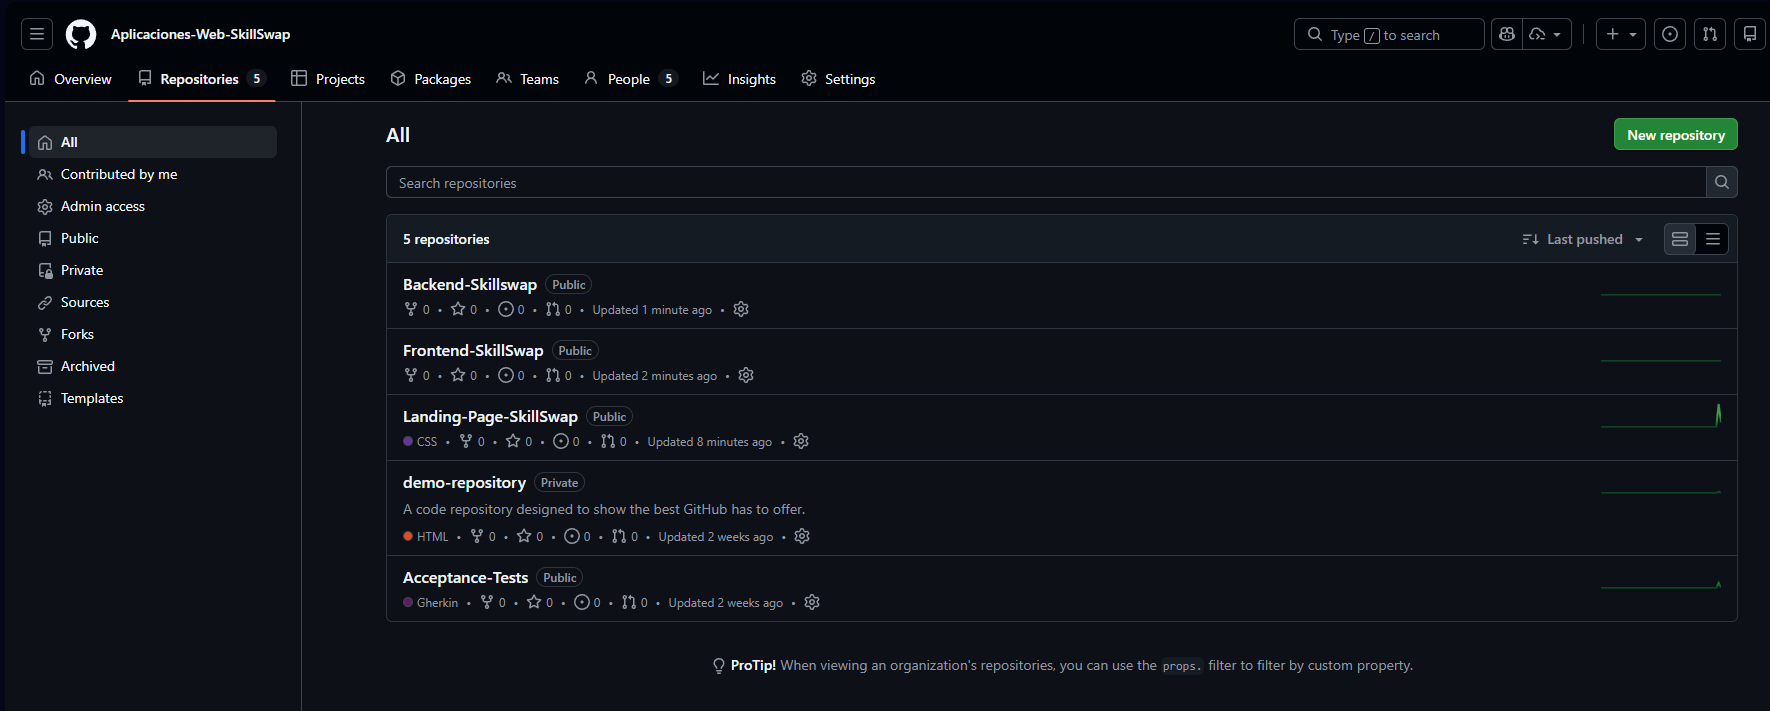
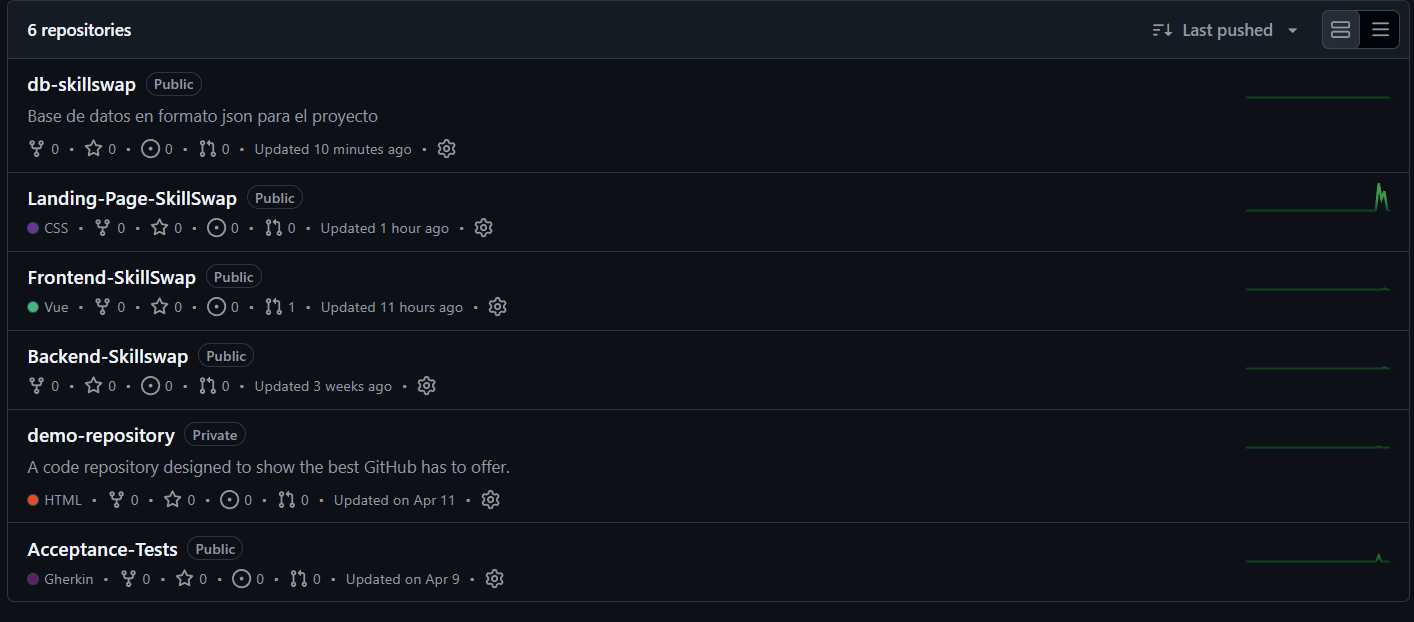
actualizando cambios

diff --git a/1asi0730-12190-Innovify-report-avn1.md b/1asi0730-12190-Innovify-report-avn1.md
@@ -2363,11 +2363,13 @@ Durante el desarrollo del proyecto se utilizó las siguientes herramientas de so
 | :--- | :--- | :---: | :--- | :--- |
 | **Canva** | Documentación y Presentaciones | SaaS | Elaboración colaborativa de presentaciones y documentación de los artefactos del proyecto. | [canva.com](https://www.canva.com/) |
 | **Figma** | UX/UI Design | SaaS | Diseño de la interfaz de usuario (wireframes, mockups y prototipos) para la Landing Page en versión web y móvil. | [figma.com](https://figma.com) |
-| **GitHub** | Control de versiones | SaaS | Repositorio del código fuente del Landing Page y servicios backend. | [github.com](https://github.com) |
+| **Firebase Hosting** | Software Deployment | SaaS | Plataforma de alojamiento utilizada para el despliegue continuo de la aplicación web (Frontend) durante el Sprint 2. | [firebase.google.com](https://firebase.google.com/) |
+| **GitHub** | Control de versiones | SaaS | Repositorio del código fuente de la Landing Page, Frontend y servicios backend. | [github.com](https://github.com) |
 | **Miro** | Requirements Management | SaaS | Elaboración colaborativa de User Story Mapping, escenarios As-Is/To-Be, diagramas C4 Model y flujos de usuario. | [miro.com](https://miro.com/) |
 | **Microsoft PowerPoint** | Documentación y Presentaciones | Local | Elaboración colaborativa de presentaciones y documentación de los artefactos del proyecto. | [microsoft.com](https://www.microsoft.com/en/microsoft-365/powerpoint) |
+| **My JSON Server** | Backend Mocking | SaaS | Herramienta utilizada para simular una Fake RESTful API y proveer datos simulados al frontend durante el Sprint 2. | [my-json-server.typicode.com](https://my-json-server.typicode.com/) |
 | **Trello** | Project Management | SaaS | Gestión ágil del proyecto, administración del Product Backlog, planificación de Sprints y asignación de tareas al equipo. | [trello.com](https://trello.com/) |
-| **Visual Studio Code** | Desarrollo Web | Local | Desarrollo y edición del código (HTML y CSS) para la Landing Page y los Acceptance Tests. | [code.visualstudio.com](https://code.visualstudio.com/download) |
+| **Visual Studio Code** | Desarrollo Web | Local | Desarrollo y edición del código (HTML, CSS, JS/TS) para la Landing Page, el Frontend y los Acceptance Tests. | [code.visualstudio.com](https://code.visualstudio.com/download) |
 | **Microsoft Word Online** | Software Documentation | SaaS | Redacción colaborativa del informe final del proyecto, especificación de requisitos y documentación técnica. | [office.com](https://www.office.com/) |
 
 ---
@@ -2375,6 +2377,8 @@ Durante el desarrollo del proyecto se utilizó las siguientes herramientas de so
 ### 5.1.2. Source Code Management
 
 Para administrar el código fuente del proyecto, el equipo empleará Git como sistema distribuido de control de versiones y GitHub como el entorno principal de colaboración. Esto permitirá conservar un registro detallado de todas las modificaciones, optimizar el trabajo en conjunto entre los miembros y garantizar la trazabilidad de cada versión del software.
+
+Durante el Sprint 2, la estrategia de gestión de ramas (GitFlow) evolucionó significativamente para soportar el desarrollo paralelo del frontend. Se crearon ramas de características (feature branches) derivadas de `develop` para cada *Bounded Context* visual (por ejemplo, `feature/workspace`, `feature/discovery`, `feature/learning`). Esto permitió a los miembros del equipo trabajar en componentes desacoplados sin generar conflictos, para luego integrarlos al entorno principal mediante *Pull Requests* debidamente estructurados y revisados.
 
 #### Repositorios GitHub
 
@@ -2386,8 +2390,11 @@ Para administrar el código fuente del proyecto, el equipo empleará Git como si
   * Enlace: [https://github.com/Aplicaciones-Web-SkillSwap/Backend-Skillswap.git](#)
 * **Demo_repository:** Repositorio de demostración del proyecto, utilizado para integrar o mostrar de forma simplificada el funcionamiento general del sistema.
   * Enlace: [https://github.com/Aplicaciones-Web-SkillSwap/demo-repository.git](#)
+* **db-SkillSwap:** Repositorio en el que se encuentran la base de datos en formato json
+  * Enlace: [https://github.com/Aplicaciones-Web-SkillSwap/db-skillswap.git](#)
 * **Acceptance Test:** Repositorio en el que se encuentran los archivos (`.feature`) en formato Gherkin.
   * Enlace: [https://github.com/Aplicaciones-Web-SkillSwap/Acceptance-Tests.git](#)
+
 
 <br><br>
 <p align="center">
@@ -2756,53 +2763,63 @@ A continuación, se presentan los nombres de usuario del equipo junto con alguno
 
 ---
 
+
 #### 5.2.1.5. Execution Evidence for Sprint Review
 En este Sprint logramos construir y visualizar la principal puerta de entrada a nuestra plataforma. Se finalizó completamente la Landing Page, permitiendo a los usuarios navegar por las secciones de Soluciones, Proyección Tecnológica y Alianzas, además de alternar fluidamente entre inglés y español.
 
-Por el lado funcional, los usuarios ya pueden acceder a la vista de Registro e Inicio de Sesión, validando que el flujo de autenticación responda correctamente.
+Por el lado funcional, los usuarios ya pueden acceder a la vista de Registro e Inicio de Sesión, validando que el flujo de autenticación responda correctamente. Se aplicaron los principios de diseño adaptable (Responsive Web Design) para asegurar el correcto despliegue en múltiples dispositivos.
 
 ### Sprint 1:
 
 <figure style="text-align: center; margin-bottom: 40px;">
-  <img src="public/assets/images-doc/sprint1-ui-evidence.png" alt="Evidencias UI Sprint 1" width="800">
+  <img src="public/assets/images-doc/sprint1-ui-evidence.png" alt="Evidencias UI Sprint 1 - Hero y CTA" width="800">
   <figcaption style="margin-top: 10px;">
-    <em>Se observa la página de inicio que define la estructura preliminar, la barra de navegación y los llamados a la acción, siendo estática.</em>
+    <em>Figura. Vista principal del Landing Page desplegado. Se evidencia la explicación del propósito de la plataforma complementada con un diseño limpio y el botón principal de Call-To-Action (CTA) diseñado para convencer a los visitantes de registrarse en la aplicación.</em>
   </figcaption>
 </figure>
 
 <br><br>
 
 <figure style="text-align: center; margin-bottom: 40px;">
-  <img src="public/assets/images-doc/sprint1-ui-evidence2.png" alt="Evidencias UI Sprint 1" width="800">
+  <img src="public/assets/images-doc/sprint1-ui-evidence-mobile.png" alt="Evidencias UI Sprint 1 - Diseño Adaptable" width="400">
   <figcaption style="margin-top: 10px;">
-    <em>Se observa la interfaz representativa de la sección "Sobre nosotros", utilizada para ilustrar el flujo de intercambio de habilidades y validar la experiencia de usuario.</em>
+    <em>Figura. Evidencia de la aplicación de los principios de Responsive Web Design. La interfaz de la Landing Page se adapta correctamente a dispositivos móviles, reorganizando los elementos en una sola columna y habilitando el menú de navegación compacto.</em>
   </figcaption>
 </figure>
 
 <br><br>
 
 <figure style="text-align: center; margin-bottom: 40px;">
-  <img src="public/assets/images-doc/sprint1-ui-evidence3.png" alt="Evidencias UI Sprint 1" width="800">
+  <img src="public/assets/images-doc/sprint1-ui-evidence-footer.png" alt="Evidencias UI Sprint 1 - Redes y Contacto" width="800">
   <figcaption style="margin-top: 10px;">
-    <em>Diseño estático del formulario de autenticación, estructurado con sus campos respectivos para la futura integración con los servicios de validación de credenciales.</em>
+    <em>Figura. Sección inferior (Footer) de la Landing Page. Se evidencia la inclusión de la información de contacto oficial de Innovify y los vínculos de acceso a nuestras cuentas en redes sociales (Social Media Accounts).</em>
   </figcaption>
 </figure>
 
 <br><br>
 
 <figure style="text-align: center; margin-bottom: 40px;">
-  <img src="public/assets/images-doc/sprint1-ui-evidence4.png" alt="Evidencias UI Sprint 1" width="800">
+  <img src="public/assets/images-doc/sprint1-ui-evidence2.png" alt="Evidencias UI Sprint 1 - Sobre Nosotros" width="800">
   <figcaption style="margin-top: 10px;">
-    <em>Vista frontal del formulario de registro estático que ilustra la disposición de los campos de recolección de datos necesarios para la creación de nuevas cuentas.</em>
+    <em>Figura. Interfaz representativa de la sección "Sobre nosotros", utilizada para ilustrar el modelo de negocio, las características y los beneficios del producto a los nuevos visitantes.</em>
   </figcaption>
 </figure>
 
 <br><br>
 
 <figure style="text-align: center; margin-bottom: 40px;">
-  <img src="public/assets/images-doc/sprint12-ui-evidence5.png" alt="Evidencias UI Sprint 1" width="800">
+  <img src="public/assets/images-doc/sprint1-ui-evidence3.png" alt="Evidencias UI Sprint 1 - Login" width="800">
   <figcaption style="margin-top: 10px;">
-    <em>La figura muestra la sección de equipo del landing page de SkillSwap, con fotos, nombres y roles técnicos de cada integrante, permitiendo visualizar la estructura y composición del equipo de ingeniería.</em>
+    <em>Figura. Diseño del formulario de autenticación, estructurado con sus campos respectivos para la futura integración con los servicios de validación de credenciales institucionales.</em>
+  </figcaption>
+</figure>
+
+<br><br>
+
+<figure style="text-align: center; margin-bottom: 40px;">
+  <img src="public/assets/images-doc/sprint12-ui-evidence5.png" alt="Evidencias UI Sprint 1 - Equipo" width="800">
+  <figcaption style="margin-top: 10px;">
+    <em>Figura. Sección de equipo del Landing Page de SkillSwap, con fotos, nombres y roles técnicos de cada integrante de ingeniería.</em>
   </figcaption>
 </figure>
 
@@ -2815,11 +2832,11 @@ Por el lado funcional, los usuarios ya pueden acceder a la vista de Registro e I
   </a>
   <figcaption style="margin-top: 10px;">
     <br>
-    <em>Url: https://upcedupe-my.sharepoint.com/:v:/g/personal/u201924127_upc_edu_pe/IQCBeAuUkFgxRroFqD6DdZjzAZq0b-0OPPn42aFCTFAOLHo?e=1UNfwx&nav=eyJyZWZlcnJhbEluZm8iOnsicmVmZXJyYWxBcHAiOiJTdHJlYW1XZWJBcHAiLCJyZWZlcnJhbFZpZXciOiJTaGFyZURpYWxvZy1MaW5rIiwicmVmZXJyYWxBcHBQbGF0Zm9ybSI6IldlYiIsInJlZmVycmFsTW9kZSI6InZpZXcifX0%3D</em>
+    <em>Enlace al video: https://upcedupe-my.sharepoint.com/:v:/g/personal/u201924127_upc_edu_pe/IQCBeAuUkFgxRroFqD6DdZjzAZq0b-0OPPn42aFCTFAOLHo?e=1UNfwx</em>
   </figcaption>
 </figure>
 <br>
-En conjunto, los elementos presentados evidencian la construcción de una base sólida a nivel de interfaz durante el primer sprint, enfocada en el diseño estático y la validación de la experiencia de usuario. Desde la estructura del landing page hasta los formularios de autenticación y registro, se establece una visión clara de la interacción del usuario con la plataforma. Asimismo, la inclusión de la sección de equipo y el video demostrativo permite contextualizar tanto la organización del proyecto como el alcance funcional alcanzado, sentando las bases para futuras integraciones y desarrollo dinámico del sistema.
+En conjunto, los elementos presentados evidencian la construcción de una base sólida a nivel de interfaz durante el primer sprint, demostrando un producto desplegado que cumple con la adaptabilidad responsiva, los llamados a la acción (CTA) y la comunicación clara del propósito de la plataforma.
 <br>
 
 ---
@@ -3044,24 +3061,36 @@ A continuación, se presenta una captura de pantalla del estado actual de nuestr
 
 **Enlace del Trello:** https://trello.com/invite/b/6917422e9c08cc04d9b59d1e/ATTId1b0ecfecfdda8662f8e494d32174e18836EB535/sprint-2 
 
-| Sprint #       | Sprint 2                                       |                      |                      |                                                |                        |                 |             |
-| :------------- | :--------------------------------------------- | :------------------- | :------------------- | :--------------------------------------------- | :--------------------: | :-------------- | :---------- |
-| **User Story** |                                                | **Work-Item / Task** |                      |                                                |                        |                 |             |
-| **Id**         | **Title**                                      | **Id**               | **Title**            | **Description**                                | **Estimation (Hours)** | **Assigned To** | **Status**  |
-| **US06**       | Apply filters to search results                | T02                  | Filter Components    | Development of filter components               |          2 hr          | David           | DONE                 |
-| **US08**       | Send tutoring reservation request              | T03                  | Reservation Form     | Form layout and modal creation                 |          2 hr          | Victor          | DONE                 |
-| **US09**       | Accept or reject reservation request           | T04                  | Action Buttons       | Accept and reject buttons UI                   |          1 hr          | Victor           | TO DO               |
-| **US10**       | Asynchronous internal chat for the reservation | T05                  | Chat Interface       | Internal asynchronous chat UI                  |          3 hr          | Victor          | IN PROGRESS          |
-| **US14**       | Create official Quiz                           | T06                  | Quiz Form            | Quiz creation form implementation              |          3 hr          | David          | DONE                  |
-| **US16**       | Solve interactive validation Quiz              | T07                  | Quiz Resolution UI   | Quiz solving interface                         |          3 hr          | David           | IN PROGRESS          |
-| **US17**       | Rate and leave a review for the tutor          | T08                  | Rating System UI     | Star rating component implementation           |          2 hr          | Sebas        | DONE                 |
-| **US18**       | Rate and leave a review for the tutor          | T08                  | Donation UI     | Star rating component implementation                |          2 hr          | Alexandra        | IN PROGRESS              |
-| **US19**       | Rate and leave a review for the tutor          | T08                  | Donation UI    | Star rating component implementation                 |          2 hr          | Alexandra        | IN PROGRESS              |
-| **US21**       | Cancel pending or scheduled reservation        | T09                  | Cancel Button UI     | Reservation cancellation interface             |          2 hr          | Victor          | IN PROGRESS          |
-| **US24**       | Report misconduct                              | T10                  | Report Form          | Misconduct report interface                    |          2 hr          | Luis          | DONE                   |
-| **US25**       | Review and resolve academic disputes           | T11                  | Moderation Table     | Dispute table and details view                 |          2 hr          | Luis           | IN PROGRESS           |
 
-
+| Sprint # | Sprint 2 | | | | | | |
+| :--- | :--- | :--- | :--- | :--- | :---: | :--- | :--- |
+| **User Story** | | **Work-Item / Task** | | | | | |
+| **Id** | **Title** | **Id** | **Title** | **Description** | **Estimation (Hours)** | **Assigned To** | **Status** |
+| **US06** | Apply filters to search results | T01 | Filter UI Layout | Design and layout of the filter side panel. | 4 hr | David | DONE |
+| | | T02 | Filter Logic | Implement dynamic filtering component logic. | 5 hr | Victor | DONE |
+| | | T03 | Fake API Binding | Connect search filters to the mock data service. | 4 hr | Sebas | DONE |
+| **US08** | Send tutoring reservation request | T04 | Modal Design | Build request modal interface and styles. | 4 hr | Victor | DONE |
+| | | T05 | Form Validation | Implement input logic and validation for request data. | 4 hr | Alexandra | DONE |
+| **US09** | Accept or reject reservation request | T06 | Action Buttons UI | Layout and styling of accept/reject buttons. | 4 hr | Victor | TO DO |
+| | | T07 | State Update Logic | Implement state management to update reservation status. | 4 hr | Luis | TO DO |
+| **US10** | Asynchronous internal chat for the reservation | T08 | Chat Layout | Build messaging UI components and message bubbles. | 6 hr | Victor | IN PROGRESS |
+| | | T09 | Chat Component Logic | Implement message sending and receiving behavior. | 5 hr | David | IN PROGRESS |
+| **US14** | Create official Quiz | T10 | Quiz Form UI | Build interface for creating questions and multiple options. | 5 hr | David | DONE |
+| | | T11 | Save and Validation | Form validation and submission to Fake API. | 4 hr | Alexandra | DONE |
+| **US16** | Solve interactive validation Quiz | T12 | Resolution UI | Design interface to read and solve the quiz. | 4 hr | David | IN PROGRESS |
+| | | T13 | Grading Component | Implement automatic grading logic and score display. | 5 hr | Sebas | IN PROGRESS |
+| **US17** | Rate and leave a review for the tutor | T14 | Rating UI | Build star rating component and review text form. | 4 hr | Alexandra | DONE |
+| | | T15 | Review Submission | Handle form submission and mock data update. | 4 hr | Luis | DONE |
+| **US18** | Make a voluntary monetary donation | T16 | Donation Modal | Design payment entry interface and amount selection. | 4 hr | Sebas | IN PROGRESS |
+| | | T17 | Payment Mock | Simulate payment gateway processing flow. | 4 hr | Victor | IN PROGRESS |
+| **US19** | View Virtual Wallet and balance | T18 | Wallet Layout | Build dashboard structure for wallet metrics. | 4 hr | Sebas | IN PROGRESS |
+| | | T19 | Balance Calculation | Fetch and compute mock transactions to display balance. | 4 hr | David | IN PROGRESS |
+| **US21** | Cancel pending or scheduled reservation | T20 | Cancel UI | Add cancel buttons and confirmation dialog modal. | 4 hr | Victor | IN PROGRESS |
+| | | T21 | Status Logic | Implement component state change to "Cancelled". | 4 hr | Luis | IN PROGRESS |
+| **US24** | Report misconduct | T22 | Report Form UI | Build form structure for submitting misconduct details. | 4 hr | Luis | DONE |
+| | | T23 | Report Submission | Handle form data submission to moderation mock service. | 4 hr | Alexandra | DONE |
+| **US25** | Review and resolve academic disputes | T24 | Moderation Table | Build dynamic data grid for pending disputes. | 5 hr | Luis | IN PROGRESS |
+| | | T25 | Resolution Logic | Implement actions to resolve or dismiss tickets. | 5 hr | Sebas | IN PROGRESS |
 
 *(Tabla 24.  Tabla de  Sprint Backlog 2  - Elaboración propia.)*
 
@@ -3077,16 +3106,20 @@ El equipo trabajó principalmente en los módulos Workspace, Discovery, Learning
 
 Cada integrante participó activamente en el desarrollo de componentes específicos del frontend, mientras que la integración de cambios se realizó utilizando GitFlow y Conventional Commits para mantener trazabilidad, control de versiones y trabajo colaborativo organizado.
 
-| Repository                  | Branch                      | Commit Id                               | Commit Message                       | Commit Message Body                                                                  | Committed on (Date) |
-| :-------------------------- | :-------------------------- | :-------------------------------------- | :----------------------------------- | :----------------------------------------------------------------------------------- | :------------------ |
-| innovify/SkillSwap-Frontend | feature/workspace-sessions  | 3065dc3da029f6af5cb4c63f21dcde366d9364be| feat: implement sessions table       | Add files via upload| 11/05/2026          |
-| innovify/SkillSwap-Frontend | feature/workspace-messages  | c31fa295a0cca57e6b10e6233908f4acff34f22 | feat: add messages interface         | Created messaging interface with responsive layout and simulated conversations.      | 11/05/2026          |
-| innovify/SkillSwap-Frontend | feature/discovery-courses   | d81acbe6d66b1fef8c54e27f3a25cb17293a8e1 | feat: add discovery courses screen   | Implemented discovery module to browse available courses and tutors.                 | 11/05/2026          |
-| innovify/SkillSwap-Frontend | feature/learning-progress   | 83ba26e1774cacc0e3024dcf9b7b1ab22a9b881 | feat: build learning dashboard       | Added frontend structure for learning progress visualization.                        | 12/05/2026          |
-| innovify/SkillSwap-Frontend | feature/assessment-ui       | f3k8c5l92d889e598db9f204b8854bbfc64aa11 | feat: add assessment interface       | Implemented assessment attempt views and score visualization.                        | 12/05/2026          |
-| innovify/SkillSwap-Frontend | feature/moderation-disputes | 98dc22330d889e598db9f204b8854bbfc64ac55 | feat: add moderation dispute panel   | Developed moderation interface for dispute management using fake data.               | 12/05/2026          |
-| innovify/SkillSwap-Frontend | feature/reputation-review   | e44daa751bc9d0ce7fa061ca686bf355a05e442 | feat: build reputation review module | Created review and rating visualization module for tutors.                           | 12/05/2026          |
-| innovify/SkillSwap-Frontend | feature/frontend-polish     | af844cb30b25a4c7dad7c92ca92b6be0edf7aa3 | feat: improve responsive frontend    | Added responsive improvements and visual consistency across all modules.             | 12/05/2026          |
+| Repository | Branch | Commit Id | Commit Message | Commit Message Body | Committed on |
+| :--- | :--- | :--- | :--- | :--- | :--- |
+| SkillSwap-Frontend | feature/workspace-sessions | 3065dc3 | feat: init session table component | Create base structure for tutoring sessions table. | 11/05/2026 |
+| SkillSwap-Frontend | feature/workspace-sessions | 4176ed4 | style: enhance responsive table | Apply CSS grid for better mobile view of sessions. | 11/05/2026 |
+| SkillSwap-Frontend | feature/workspace-sessions | 5287fb5 | fix: resolve session status alignment | Corrected vertical alignment for status chips. | 11/05/2026 |
+| SkillSwap-Frontend | feature/discovery-courses | d81acbe | feat: implement course grid | Created the main discovery view for tutoring subjects. | 11/05/2026 |
+| SkillSwap-Frontend | feature/discovery-courses | d92bcde | feat: add course search filter | Integrated search bar logic to filter course cards. | 11/05/2026 |
+| SkillSwap-Frontend | feature/discovery-courses | e03cdef | refactor: optimize card image loading | Improved performance by lazy loading tutor images. | 12/05/2026 |
+| SkillSwap-Frontend | feature/assessment-ui | f3k8c5l | feat: create quiz resolution view | Implemented the UI for students to solve quizzes. | 12/05/2026 |
+| SkillSwap-Frontend | feature/assessment-ui | g4l9d6m | feat: add automatic grading logic | Calculated final score based on selected answers. | 12/05/2026 |
+| SkillSwap-Frontend | feature/assessment-ui | h5m0e7n | style: quiz modal polish | Added transitions and success animations for scores. | 12/05/2026 |
+| SkillSwap-Frontend | feature/moderation-disputes | 98dc223 | feat: build dispute report form | Form created for users to report misconduct. | 12/05/2026 |
+| SkillSwap-Frontend | feature/moderation-disputes | 09ed334 | feat: add admin dispute dashboard | Created table for coordinators to review tickets. | 12/05/2026 |
+| SkillSwap-Frontend | feature/moderation-disputes | 10fe445 | fix: validate report form inputs | Added required field checks before submission. | 12/05/2026 |
 
 
 *(Tabla 25.  Tabla de  Development Evidence for Sprint Review - Elaboración propia.)*
@@ -3191,15 +3224,18 @@ En conjunto, las evidencias presentadas reflejan la implementación de una base 
 
 #### 5.2.2.6.Services Documentation Evidence for Sprint Review.
 
-En esta sección se presentan los resultados relacionados con la documentación de servicios correspondiente al Sprint 2. Debido a que esta iteración estuvo enfocada exclusivamente en el desarrollo frontend y validación visual de los módulos funcionales del sistema, no se implementaron servicios RESTful reales ni integración con backend.
+Para este Sprint, se ha implementado y desplegado una **Fake RESTful API** utilizando la herramienta *My JSON Server*, la cual actúa como el backend provisional de la plataforma. Esta arquitectura permite al equipo de frontend realizar peticiones HTTP reales (GET, POST, DELETE) y validar la integridad de los datos simulados en los Bounded Contexts de Discovery, Workspace, Learning, Moderation y Reputation.
 
-Para representar el comportamiento dinámico de la plataforma, se utilizaron Fake APIs y estructuras de datos simuladas, permitiendo validar la navegación, interacción y experiencia de usuario en los módulos Workspace, Discovery, Learning, Assessment, Moderation y Reputation.
+A continuación, se documentan los principales recursos (endpoints) consumidos por las aplicaciones durante esta iteración:
 
-La integración de servicios reales y documentación OpenAPI será abordada en futuros Sprints, una vez finalizada la implementación visual y estructural del frontend.
+| Endpoint | Action | HTTP Verb | Call Syntax | Parameters | Response Example | Documentation Link |
+| :--- | :--- | :--- | :--- | :--- | :--- | :--- |
+| `/sessions` | Obtener historial de tutorías | GET | `https://my-json-server.com/[user]/db/sessions` | None | `[{"id":1, "course":"Física", "status":"Done"}]` | [Link a db.json](https://github.com/Aplicaciones-Web-SkillSwap/db-skillswap.git) |
+| `/tutors` | Listar tutores disponibles | GET | `https://my-json-server.com/[user]/db/tutors` | `?skills_like=calculo` | `[{"id":10, "name":"Victor", "rating":4.5}]` | [Link a db.json](https://github.com/Aplicaciones-Web-SkillSwap/db-skillswap.git) |
+| `/quizzes` | Recuperar evaluaciones | GET | `https://my-json-server.com/[user]/db/quizzes` | `?courseId=1` | `[{"id":5, "title":"Quiz Cinemática"}]` | [Link a db.json](https://github.com/Aplicaciones-Web-SkillSwap/db-skillswap.git) |
+| `/disputes` | Reportar o listar disputas | POST / GET | `https://my-json-server.com/[user]/db/disputes` | Payload: `{userId, reason}` | `{"id":101, "status":"Pending"}` | [Link a db.json](https://github.com/Aplicaciones-Web-SkillSwap/db-skillswap.git) |
+| `/reviews` | Consultar reputación | GET | `https://my-json-server.com/[user]/db/reviews` | `?tutorId=5` | `[{"comment":"Excelente", "stars":5}]` | [Link a db.json](https://github.com/Aplicaciones-Web-SkillSwap/db-skillswap.git) |
 
-| Endpoint | Action                                               | HTTP Verb | Call Syntax | Parameters | Response Example | Documentation Link |
-| :------- | :--------------------------------------------------- | :-------- | :---------- | :--------- | :--------------- | :----------------- |
-| N/A      | No se implementaron servicios RESTful en el Sprint 1 | N/A       | N/A         | N/A        | N/A              | N/A                |
 
 
 #### 5.2.2.7.Software Deployment Evidence for Sprint Review.